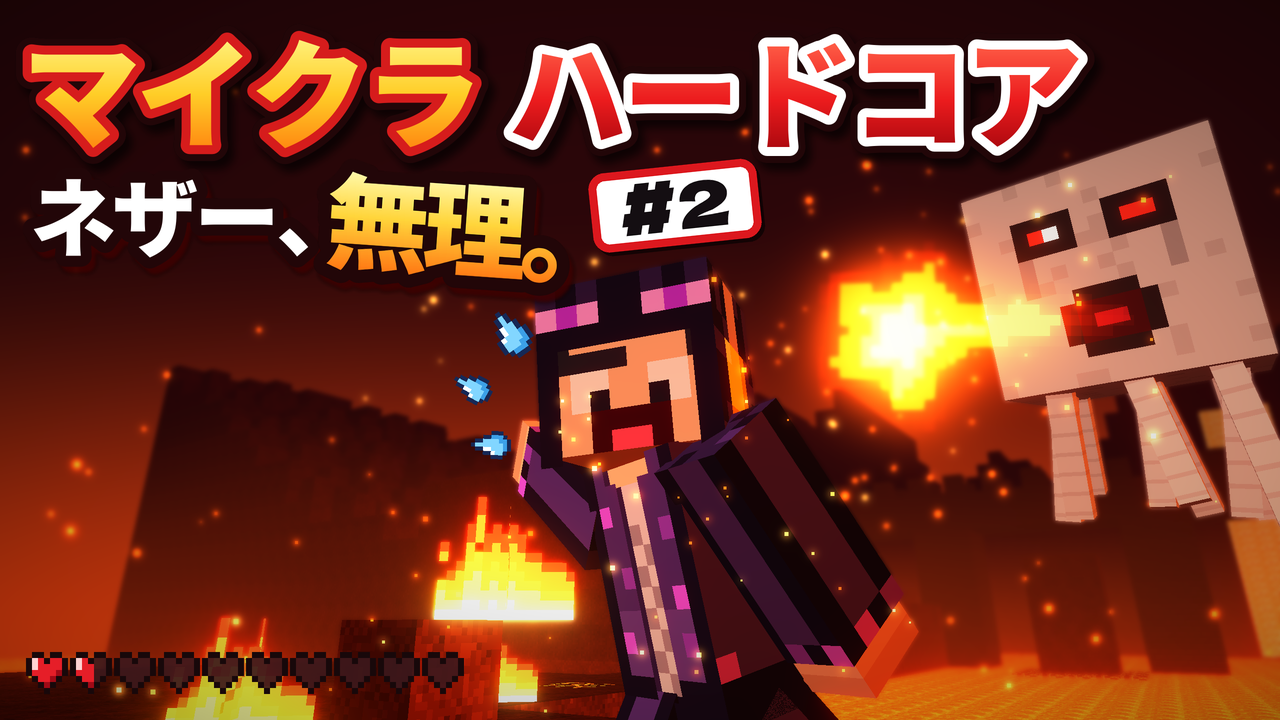
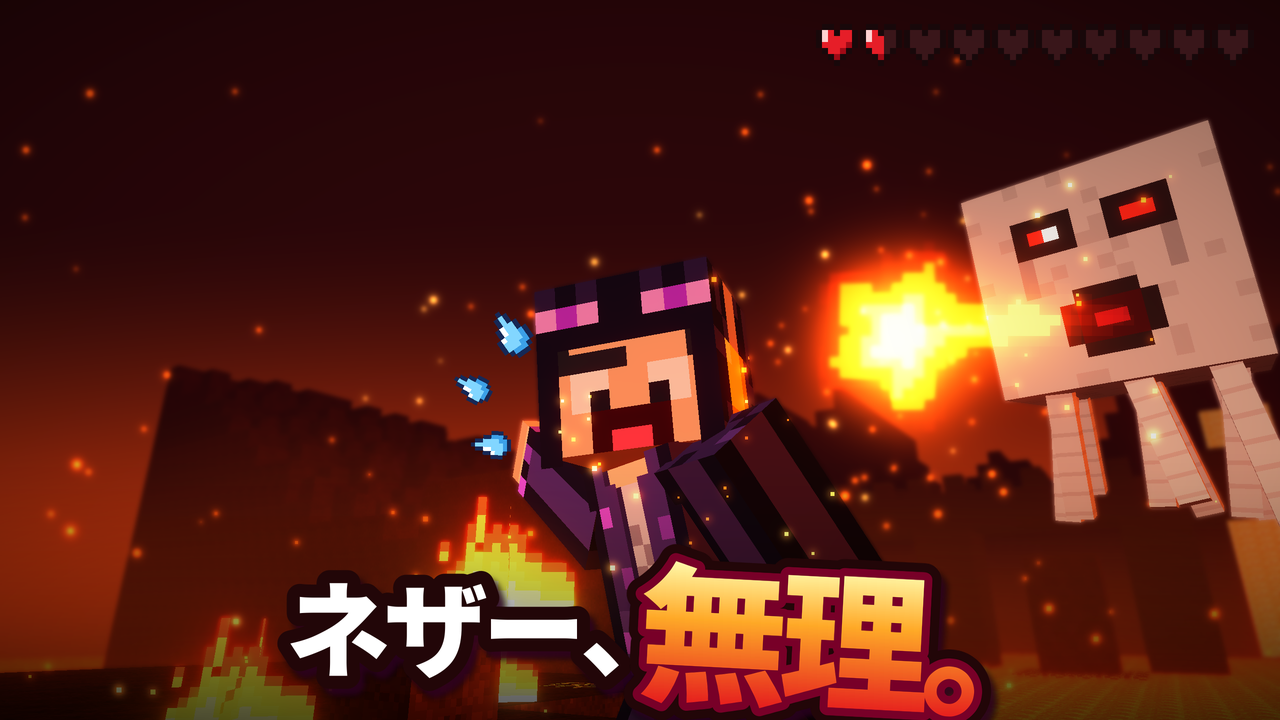
#2 のサムネの文字を「ネザー、無理。」だけにして真ん中下へ
- 「マイクラ ハードコア」と「#2」を消し、キャッチを #3 と同じ大きさ・色で真ん中下に
- 左上はロゴなどを入れられるようにあけ、体力ハートは右上へ
- 使わなくなった title_block を削除（#3 の出力は変わらない）

Claude-Session: https://claude.ai/code/session_01ARLGywnTjgvutUHsht7TWK

diff --git a/sekunuyu-thumbnail/episodes/ep02_nether.py b/sekunuyu-thumbnail/episodes/ep02_nether.py
@@ -238,23 +238,36 @@ def embers(img, n=170, seed=8, around=None):
 # ---------------------------------------------------------------- 文字入れ
 
 TEXT = {
-    "series1": "マイクラ",
-    "series2": "ハードコア",
     "catch1": "ネザー、",
     "catch2": "無理。",
-    "badge": "#2",
 }
 
 
 def compose(art: Image.Image, S: int) -> Image.Image:
-    """S 倍の大きさで文字・ハート・バッジを描く。"""
+    """S 倍の大きさで文字・ハート・汗を描く。文字は真ん中下のキャッチだけ（左上はロゴなどを入れられるようにあける）。"""
     c = art.convert("RGBA")
-    ov.title_block(c, S, (TEXT["series1"], TEXT["series2"]), (TEXT["catch1"], TEXT["catch2"]), TEXT["badge"],
-                   fonts.BLACK, fonts.DELA)
+    dark = ov.DARK
+    # 下の方を少し暗くして、大きい文字を読みやすく
+    h = c.height
+    grad = np.clip((np.arange(h) / h - 0.62) / 0.38, 0, 1) ** 1.4 * 150
+    band = np.zeros((h, c.width, 4), np.uint8)
+    band[..., 3] = grad.astype(np.uint8)[:, None]
+    c.alpha_composite(Image.fromarray(band, "RGBA"))
     # 飛び散る汗（頭の左側）
     for (sx, sy, ang, sc) in [(478, 300, 35, 5), (446, 362, 62, 4), (470, 426, 88, 4)]:
         c.alpha_composite(ov.sweat(sc * S, ang), (sx * S, sy * S))
-    ov.hearts_bar(c, S, ["full", "half"] + ["empty"] * 8)
+    # 体力ハート（右上。残り1.5個で大ピンチ）
+    ov.hearts_bar(c, S, ["full", "half"] + ["empty"] * 8, x=1280 - 26 - 9 * 44 - 42, y=24)
+    # 真ん中下：キャッチ（#3 と同じ大きさ・色）。いったん別の層に描いて、左右のまん中にそろえる
+    layer = Image.new("RGBA", c.size, (0, 0, 0, 0))
+    shadow = (6 * S, 8 * S, (40, 0, 30, 220), 3 * S)
+    b1 = ov.fx_text(layer, (200 * S, 548 * S), TEXT["catch1"], ov.font(fonts.BLACK, 104 * S), (255, 255, 255, 255),
+                    strokes=[(13 * S, dark)], shadow=shadow, spacing=-6 * S)
+    ov.fx_text(layer, (b1[2] - 14 * S, 512 * S), TEXT["catch2"], ov.font(fonts.BLACK, 150 * S),
+               [(0, (255, 250, 170)), (0.4, (255, 170, 40)), (1, (230, 30, 30))],
+               strokes=[(17 * S, dark), (8 * S, (120, 0, 40, 255))], shadow=shadow, spacing=-8 * S, rotate=-3)
+    bb = layer.getbbox()
+    c.alpha_composite(layer.crop((bb[0], 0, bb[2], c.height)), ((c.width - (bb[2] - bb[0])) // 2, 0))
     return c
 
 

diff --git a/sekunuyu-thumbnail/lib/overlay.py b/sekunuyu-thumbnail/lib/overlay.py
@@ -162,27 +162,6 @@ def sweat(scale: int, angle: float = 0.0) -> Image.Image:
 DARK = (34, 6, 8, 255)
 
 
-def title_block(c: Image.Image, S: int, series: tuple[str, str], catch: tuple[str, str], badge_text: str,
-                black: str, dela: str, catch_size: tuple[int, int] = (86, 104)) -> tuple[int, int, int, int]:
-    """全エピソード共通の文字組み：シリーズ名（2語）＋キャッチ（白＋強調）＋番号バッジ。S 倍で描く。"""
-    shadow = (6 * S, 8 * S, (0, 0, 0, 170), 4 * S)
-    f = font(black, 118 * S)
-    b1 = fx_text(c, (22 * S, 2 * S), series[0], f,
-                 [(0, (255, 240, 120)), (0.5, (255, 206, 40)), (1, (255, 138, 18))],
-                 strokes=[(16 * S, DARK), (9 * S, (214, 28, 28, 255))], shadow=shadow, spacing=-4 * S)
-    fx_text(c, (b1[2] + 4 * S, 2 * S), series[1], f,
-            [(0, (255, 92, 70)), (0.55, (236, 28, 30)), (1, (176, 10, 16))],
-            strokes=[(16 * S, DARK), (9 * S, (255, 255, 255, 255))], shadow=shadow, spacing=-4 * S)
-    s1, s2 = catch_size
-    b2 = fx_text(c, (30 * S, 150 * S), catch[0], font(black, s1 * S), (255, 255, 255, 255),
-                 strokes=[(11 * S, DARK)], shadow=(5 * S, 7 * S, (60, 0, 0, 220), 2 * S), spacing=-4 * S)
-    b3 = fx_text(c, (b2[2] - 10 * S, (150 - (s2 - s1) * 7 // 9) * S), catch[1], font(black, s2 * S),
-                 [(0, (255, 250, 170)), (0.45, (255, 214, 60)), (1, (255, 120, 20))],
-                 strokes=[(13 * S, DARK)], shadow=(5 * S, 7 * S, (60, 0, 0, 220), 2 * S), spacing=-6 * S, rotate=-4)
-    return badge(c, (b3[2] + 6 * S, 156 * S), badge_text, font(dela, 64 * S), pad=(20 * S, 6 * S),
-                 border=8 * S, radius=16 * S, rotate=6)
-
-
 def hearts_bar(c: Image.Image, S: int, kinds: list[str], x: int = 26, y: int = 652) -> None:
     """マイクラ風の体力ハート（左下に横一列）。"""
     for i, k in enumerate(kinds):
